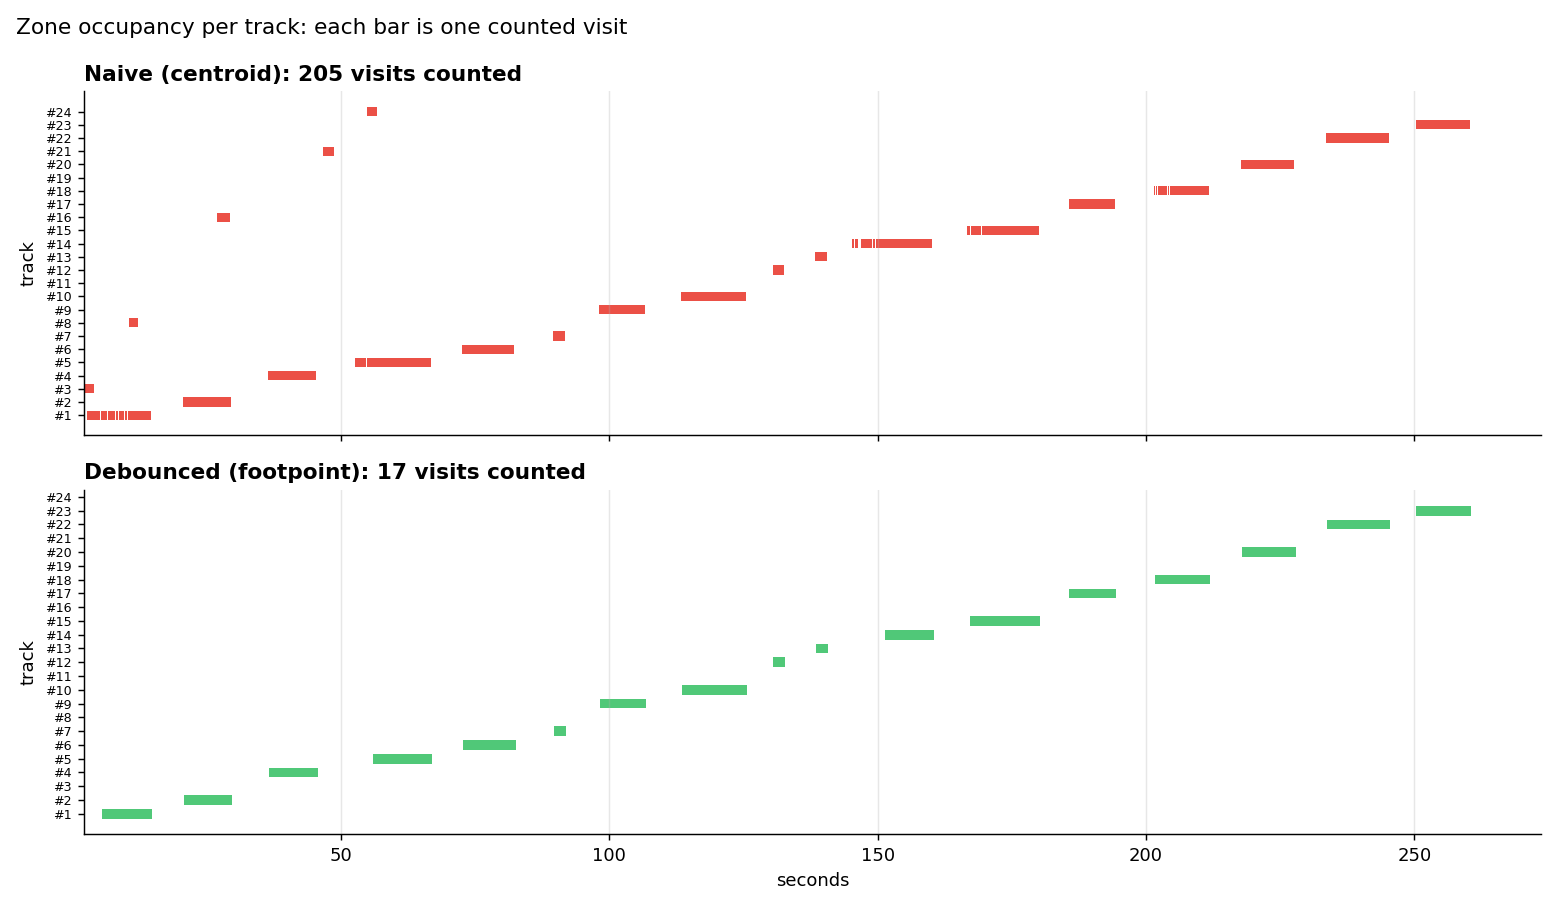
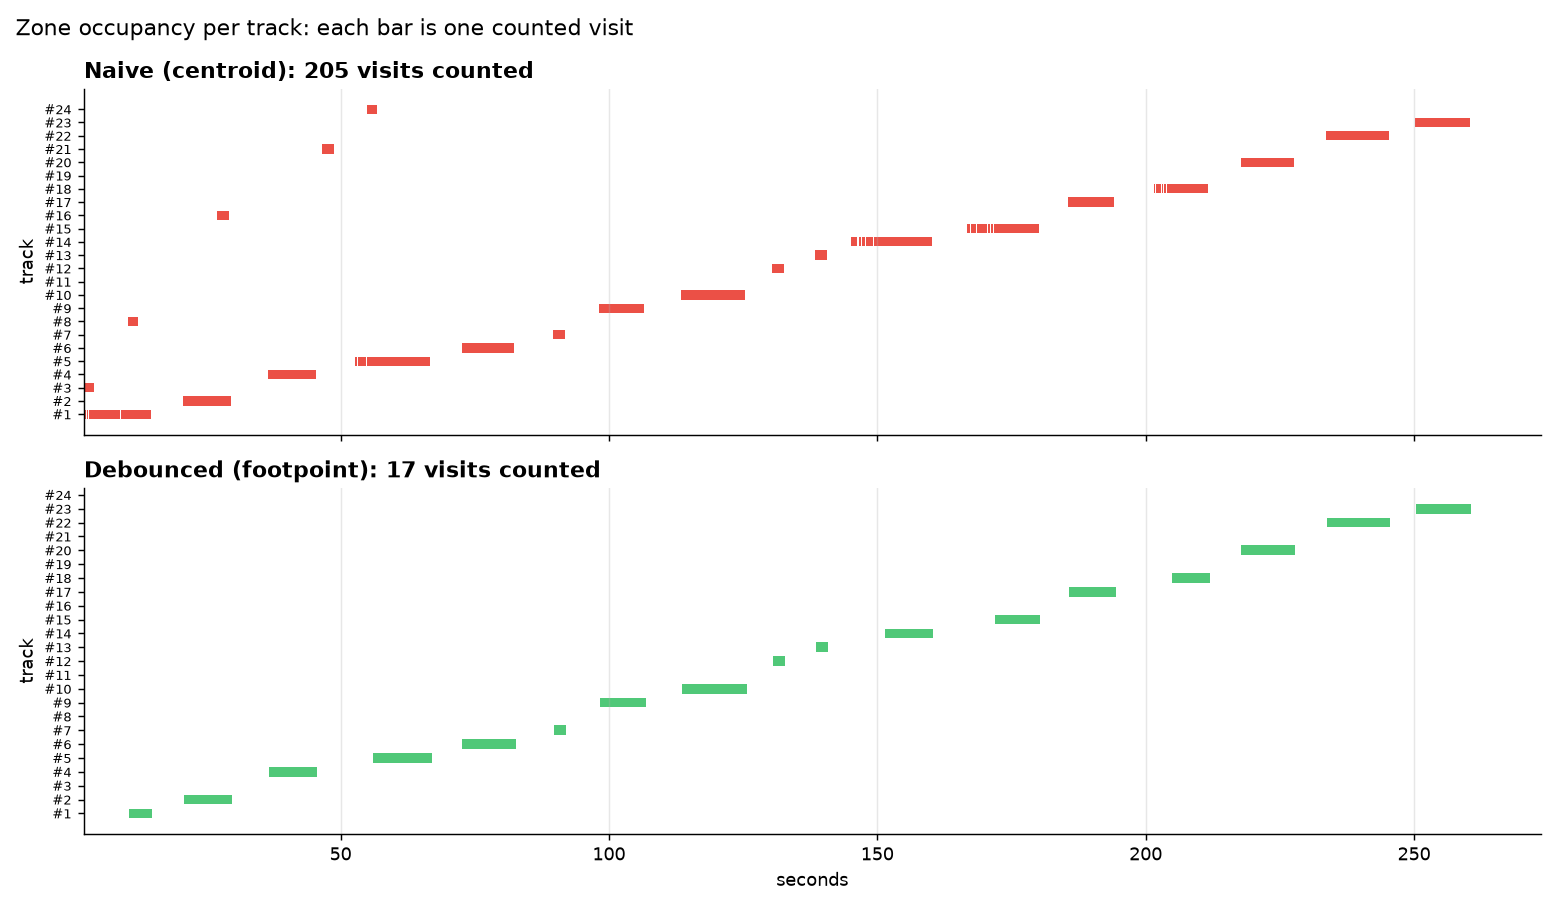
docs: describe spatial hysteresis; regenerate timeline
Only timeline.png changes under the fix (edge-idle visits now start at real entry); regenerated with its make visuals command. Other images are unchanged by the fix and left as committed.

diff --git a/README.md b/README.md
@@ -113,7 +113,7 @@ make counts                   # did every event still arrive, exactly once?
 | Failure | Cause | Fix demonstrated | Fixture |
 |---|---|---|---|
 | Track vanishes inside the zone, visit never ends | Counter only reacts to boxes it receives | `lost_ms` timeout closes the visit at the last-seen time | `queue.dets.jsonl` |
-| Boundary jitter inflates counts | State flips on every frame the anchor crosses the edge | N-frame hysteresis, minimum dwell, cooldown | `boundary_jitter.jsonl` |
+| Boundary jitter inflates counts | State flips on every frame the anchor crosses the edge | N-frame and spatial hysteresis, minimum dwell, cooldown | `boundary_jitter.jsonl` |
 | Shadow pulls box into adjacent lane | Centroid moves when the box stretches | Bottom-centre footpoint anchor | `shadow_expansion.jsonl` |
 | Events lost on disconnect | Fire-and-forget publish | QoS 1, persistent session, bounded local queue | lab + `outage` |
 | Double counting after reconnect | At-least-once redelivery | ULID `event_id` + `ON CONFLICT DO NOTHING` | lab + `outage` |

diff --git a/docs/case-study-tracking.md b/docs/case-study-tracking.md
@@ -32,6 +32,7 @@ Add a GIF of the worst offender here. One clip of a box flickering on a boundary
 | Baseline | TBD | |
 | + footpoint anchor | TBD | |
 | + hysteresis (5 in / 8 out) | TBD | |
+| + edge margin (10 px) | TBD | parked on the zone edge |
 | + min dwell 1 s, cooldown 1.5 s | TBD | |
 | + tracker swap (see docs/trackers.md): `replay.compare` row per tracker | TBD | identity handover impact |
 
